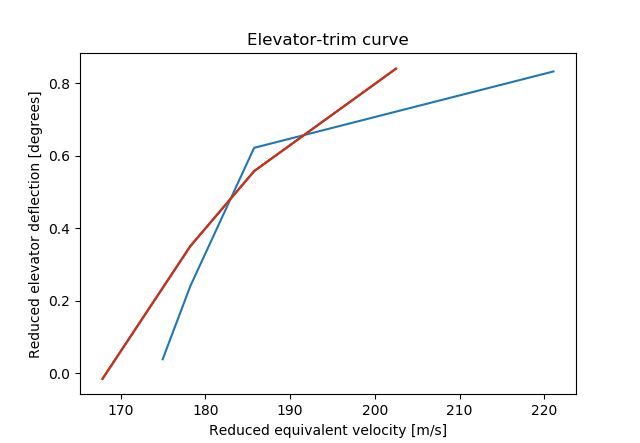
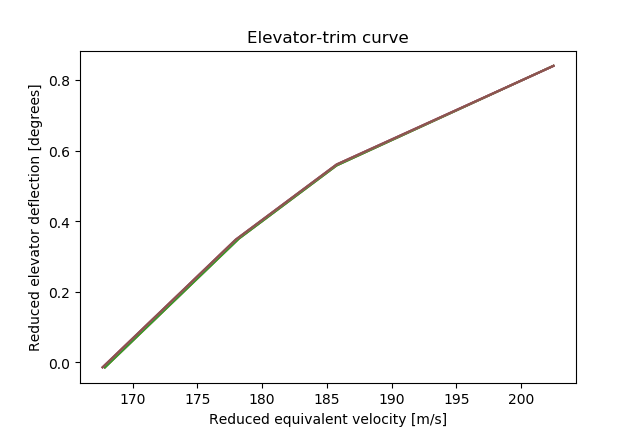
Changed the weight calculations

diff --git a/elevator_effectiveness.py b/elevator_effectiveness.py
@@ -121,8 +121,8 @@ def calc_d_e_d_alpha(trim_curve_data):
 def calc_weight(start_weight, fuel_used):
     weights = [start_weight]
 
-    for i in range(1, len(fuel_used)):
-        weight_left = weights[0] - float(fuel_used[i])
+    for i in range(0, len(fuel_used)):
+        weight_left = start_weight - float(fuel_used[i])
         weights.append(weight_left)
 
     return weights
